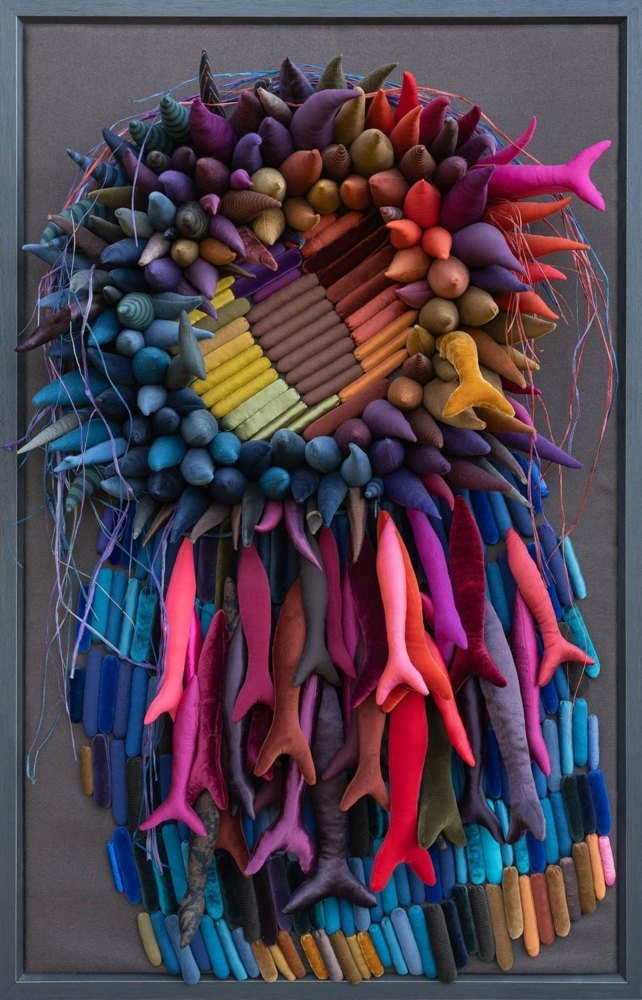
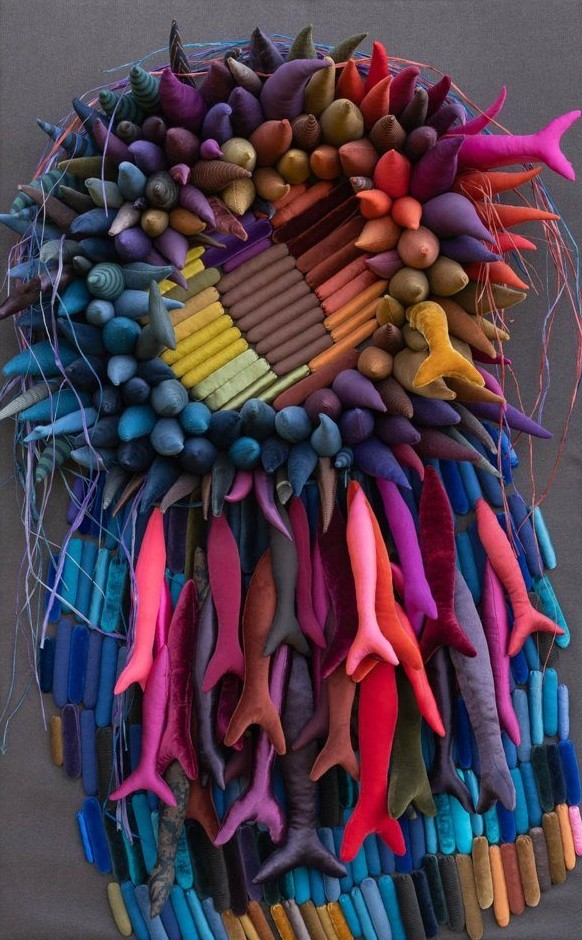
Remove frame from Indra textile work 2
Claude-Session: https://claude.ai/code/session_016Lo5qMsXVYYyB4rEtzvvTs

diff --git a/index.html b/index.html
@@ -201,7 +201,7 @@ body[data-view]:not([data-view="home"]) .bio{padding-top:300px}
 
 <section id="indra" class="dark bio"><div class="wrap"><h2>Indra Marcinkevičienė</h2><p>Indra Marcinkevičienė is a Lithuanian artist whose work explores the emotional world of women, war and life under political oppression, in pieces that range from Madonnas to ironic, banana-like fountain sculptures. She is also known for her interior design objects and for her command of colour. Her design piece <em>Happy Boomerang</em> was presented at the Collect 2015 craft fair at London’s Saatchi Gallery. In 2024 her work was shown in France in <em>Dévotions privées</em> in Metz, <em>Crescendo. Lituanie</em> at the Grand Théâtre de Provence in Aix-en-Provence, and <em>Gentle Resistance</em> with the photographer Antanas Sutkus in Bourganeuf, as well as at the Art Vilnius’24 contemporary art fair in Lithuania. A design she co-created received Lithuania’s Good Design prize in 2012. In 2026 the Museo Civico Pietro Cavoti in Galatina, Italy, presented <em>First, We Bite: Icons, Offerings and the Feminine in Ritual</em>, her joint exhibition with Vilmantas Marcinkevičius, curated by Neringa J. Miller. She divides her time between Lithuania and Galatina, in southern Italy.</p><p>Her work is now introduced to American collectors through SAVAS Art House.</p></div></section>
 <section id="indra-works" class="wall"><div class="wrap"><h3 style="margin-bottom:1rem">Selected works</h3><div class="vgrid"><article class="work"><img src="img/savas-16.jpg" alt="Textile wall work by Indra Marcinkevičienė, work 1" width="638" height="1000" loading="lazy"><h3>Title to be confirmed</h3><p>Textile; dimensions to be confirmed<br>Price Upon Request</p><button class="btn" data-art="Indra Marcinkevičienė, work 1 (title to be confirmed)">Inquire</button></article>
-<article class="work"><img src="img/savas-17.jpg" alt="Textile wall work by Indra Marcinkevičienė, work 2" width="642" height="1000" loading="lazy"><h3>Title to be confirmed</h3><p>Textile; dimensions to be confirmed<br>Price Upon Request</p><button class="btn" data-art="Indra Marcinkevičienė, work 2 (title to be confirmed)">Inquire</button></article>
+<article class="work"><img src="img/savas-17.jpg" alt="Textile wall work by Indra Marcinkevičienė, work 2" width="582" height="940" loading="lazy"><h3>Title to be confirmed</h3><p>Textile; dimensions to be confirmed<br>Price Upon Request</p><button class="btn" data-art="Indra Marcinkevičienė, work 2 (title to be confirmed)">Inquire</button></article>
 <article class="work"><img src="img/savas-18.jpg" alt="Close-up detail of a textile wall work by Indra Marcinkevičienė" width="800" height="1000" loading="lazy"><h3>Detail</h3><p>Close-up of work 1, showing the sewn textile forms</p></article>
 <article class="work"><img src="img/savas-80.jpg" alt="Textile wall work by Indra Marcinkevičienė: a sunburst of sewn forms in yellow, pink and purple above a cascade of fish-like shapes" width="744" height="1154" loading="lazy"><h3>Title to be confirmed</h3><p>Textile wall work; dimensions to be confirmed<br>Price Upon Request</p><button class="btn" data-art="Indra Marcinkevičienė, textile work 3 (title to be confirmed)">Inquire</button></article>
 <article class="work"><img class="free" src="img/savas-81.jpg" alt="Round textile work by Indra Marcinkevičienė made of velvet pods shading from gold and orange to red and magenta" width="1130" height="1072" loading="lazy"><h3>Title to be confirmed</h3><p>Textile; dimensions to be confirmed<br>Price Upon Request</p><button class="btn" data-art="Indra Marcinkevičienė, textile work 4 (title to be confirmed)">Inquire</button></article></div><h3 style="margin:3.5rem 0 1rem">Furniture</h3><p style="margin-bottom:0">Sculptural furniture in velvet, wool and colour. Apart from the chairs, each piece is made by hand.</p><div class="vgrid"><article class="work"><img src="img/savas-82.jpg" alt="Happy Boomerang sofa by Indra Marcinkevičienė, red velvet with a fan of colourful ribs" width="1200" height="829" loading="lazy"><h3>Happy Boomerang</h3><p>Sofa. Wood board, foam rubber, velvet<br>130 × 206 × 104 cm (H × W × D)<br>Presented at Collect 2015, Saatchi Gallery<br>Price Upon Request</p><button class="btn" data-art="Indra Marcinkevičienė, Happy Boomerang">Inquire</button></article>
